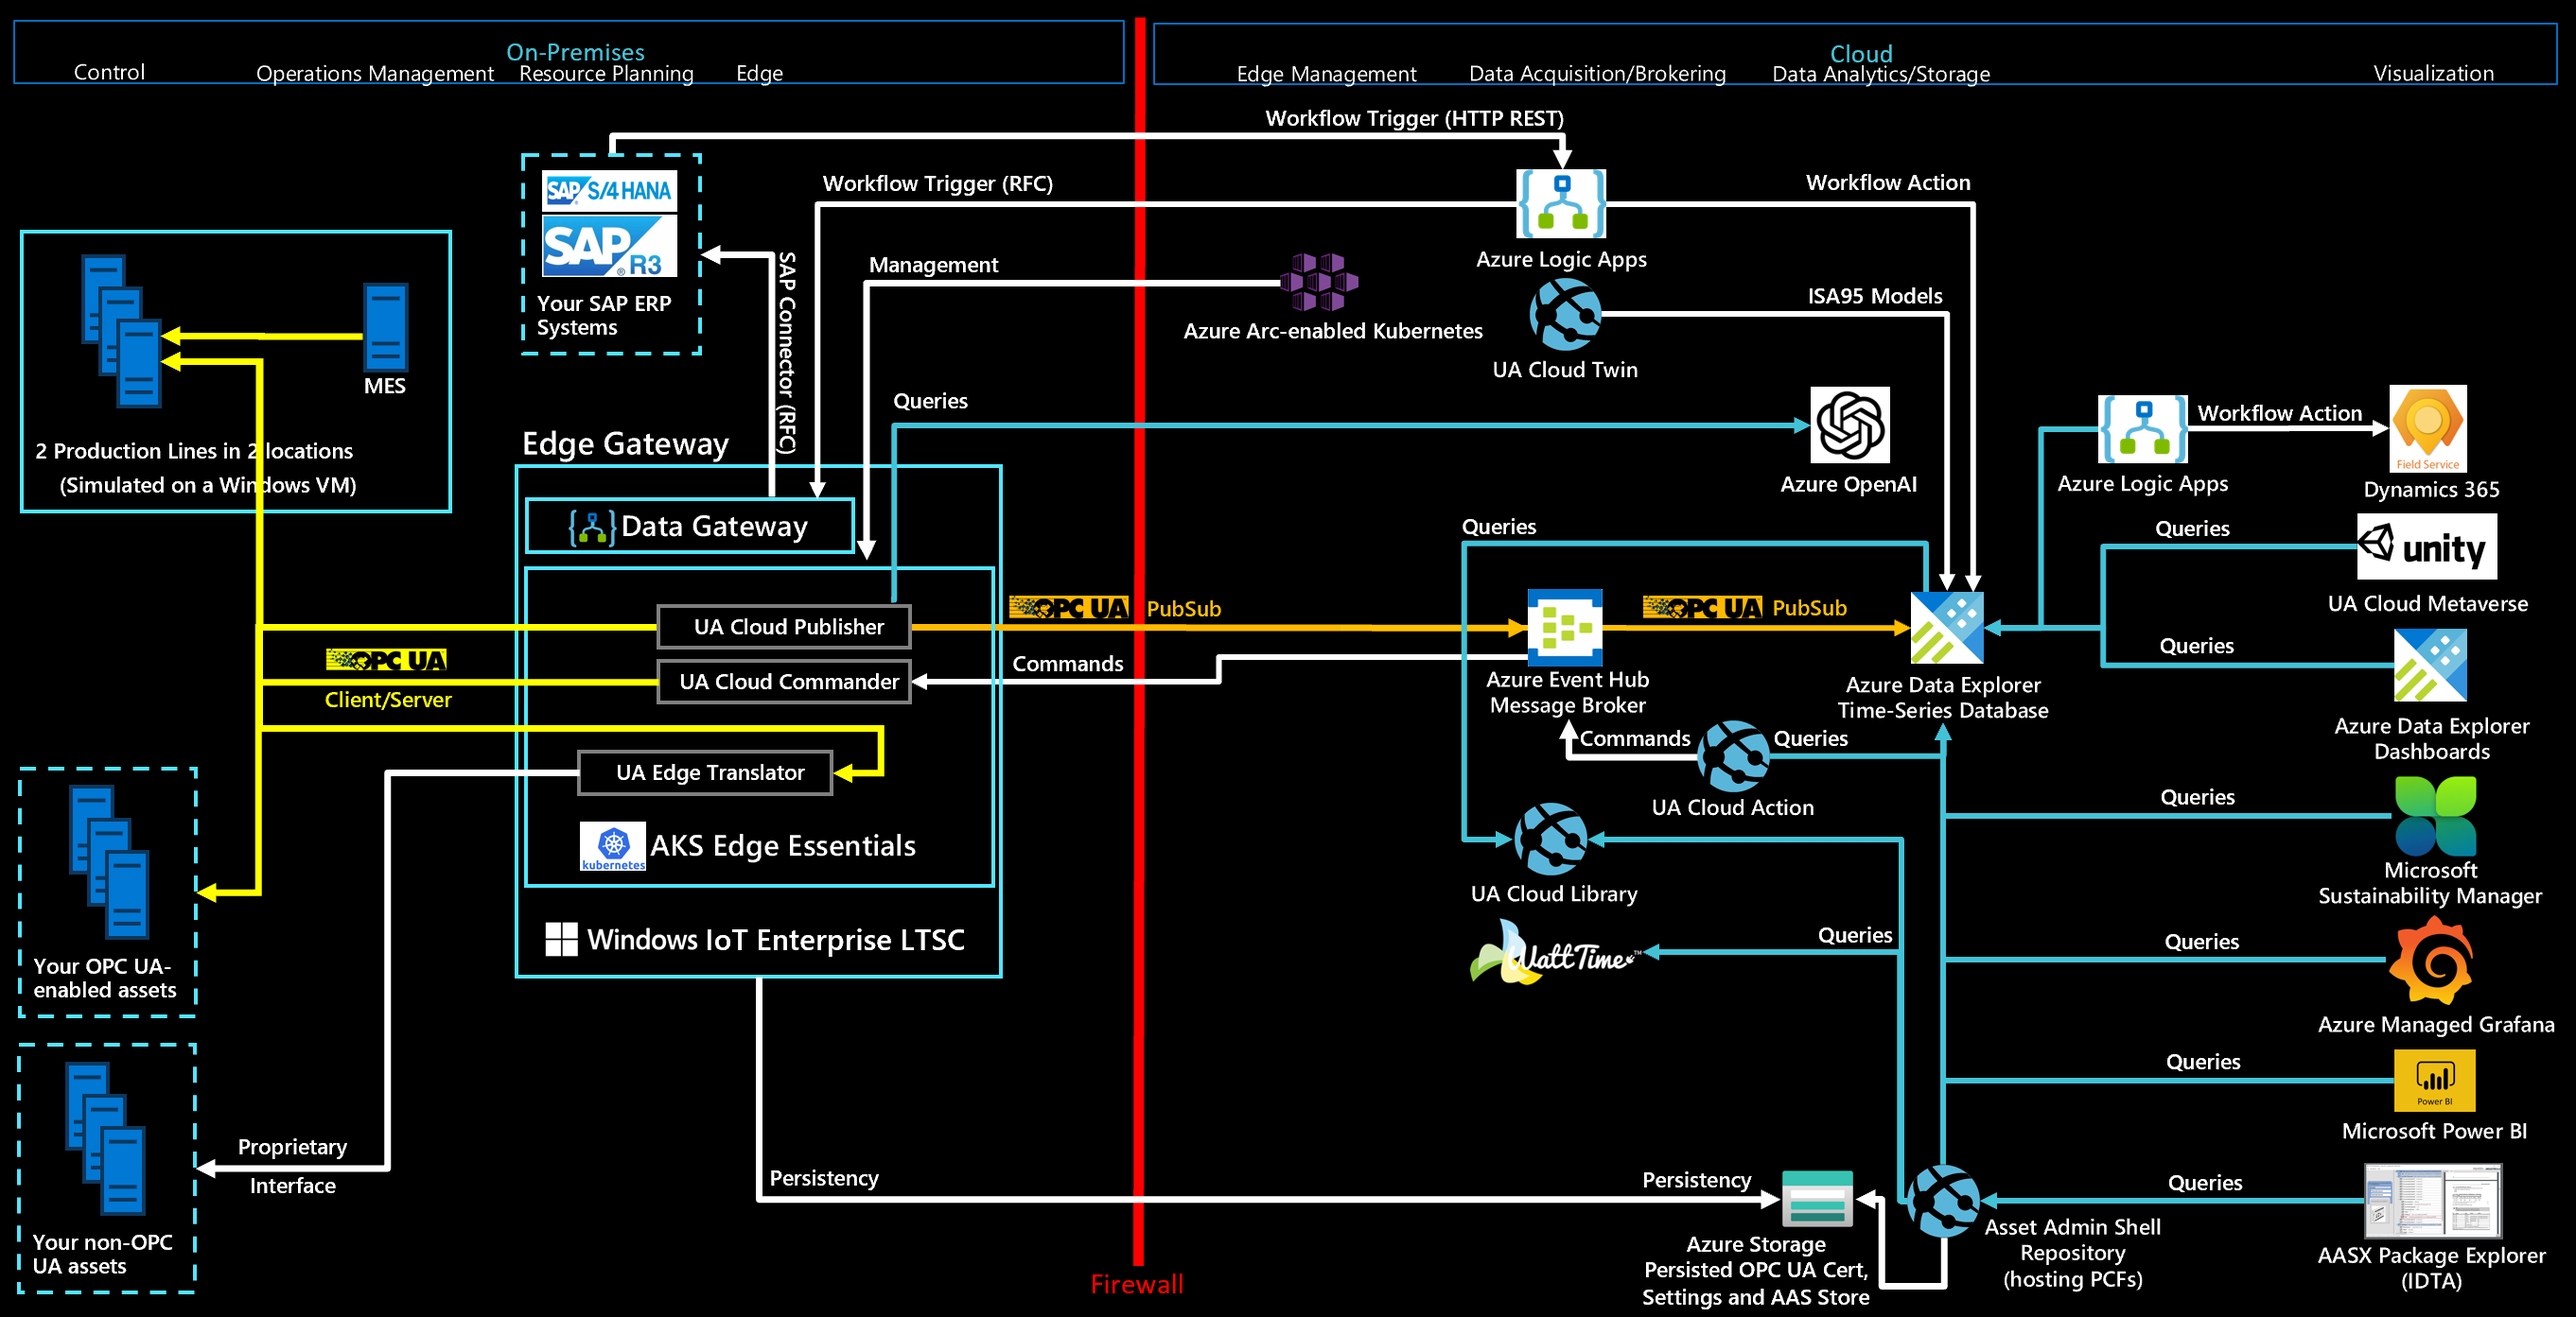
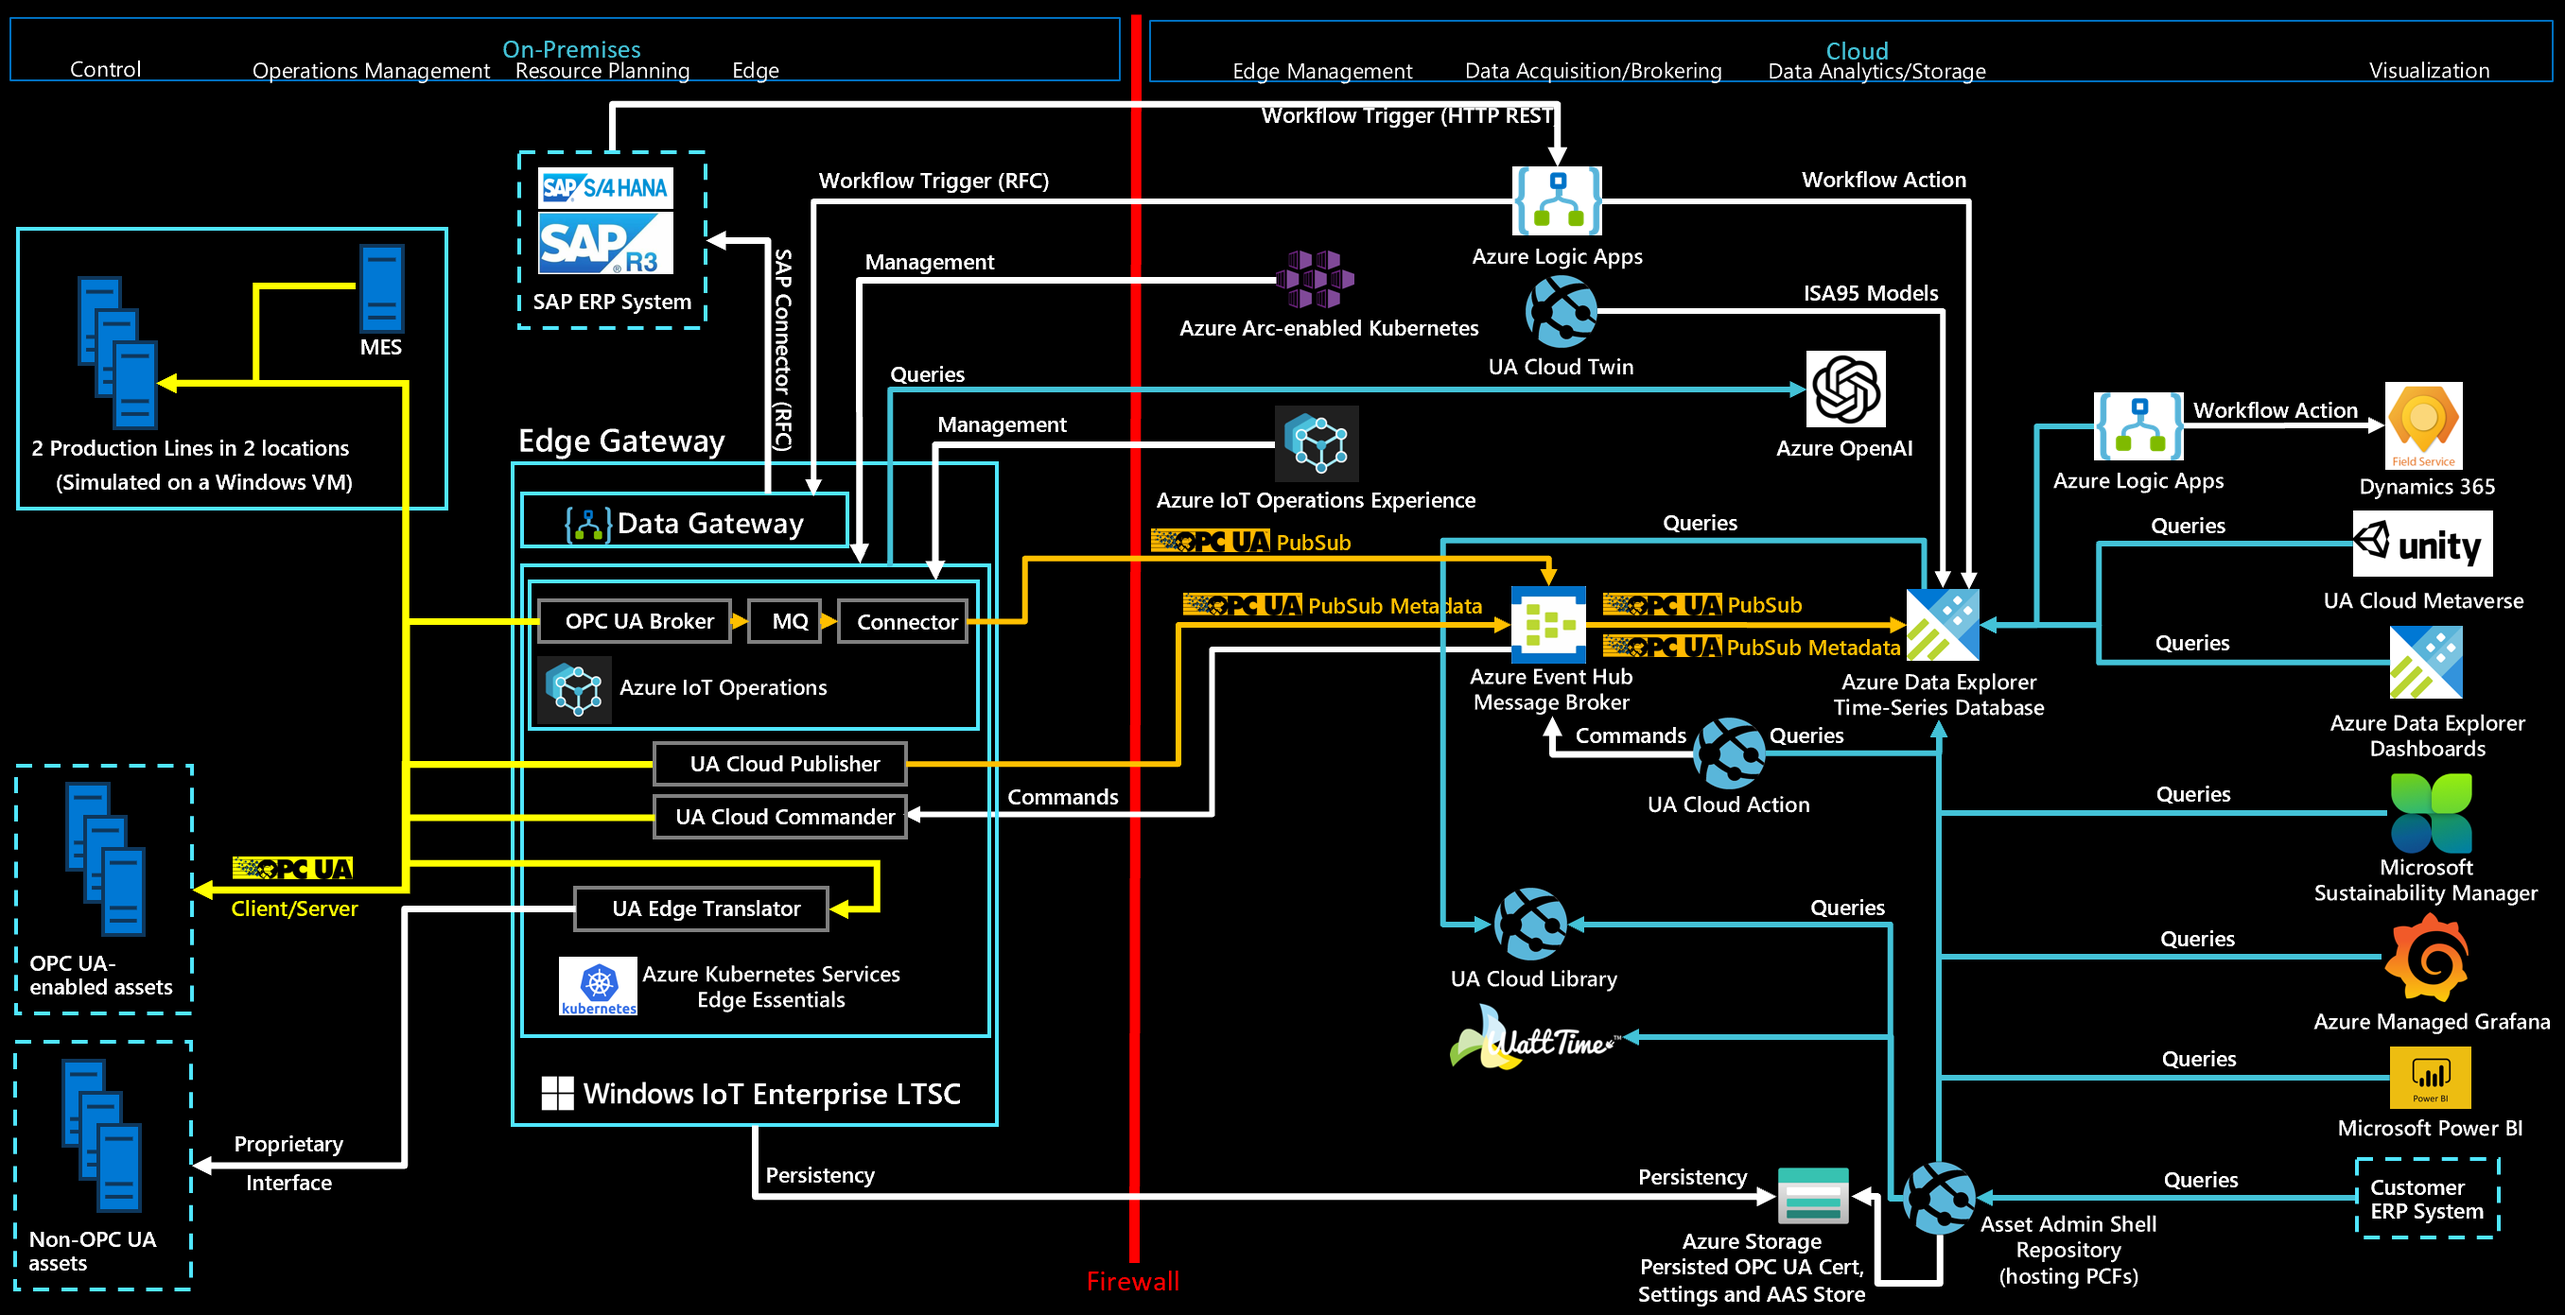
Updated arch diagram and readme.

diff --git a/README.md b/README.md
@@ -12,10 +12,10 @@
 * [Digital Feedback Loop with UA Cloud Commander and UA Cloud Action](https://github.com/digitaltwinconsortium/ManufacturingOntologies?tab=readme-ov-file#digital-feedback-loop-with-ua-cloud-commander-and-ua-cloud-action)
 * [Installation of Production Line Simulation and Cloud Services](https://github.com/digitaltwinconsortium/ManufacturingOntologies?tab=readme-ov-file#installation-of-production-line-simulation-and-cloud-services)
 * [Running the Production Line Simulation](https://github.com/digitaltwinconsortium/ManufacturingOntologies?tab=readme-ov-file#running-the-production-line-simulation)
+* [Enabling the Edge for Management via Azure Arc](https://github.com/digitaltwinconsortium/ManufacturingOntologies?tab=readme-ov-file#enabling-the-edge-for-management-via-azure-arc)
+* [Installing Azure IoT Operations on the Edge](https://github.com/digitaltwinconsortium/ManufacturingOntologies?tab=readme-ov-file#installing-azure-iot-operations-on-the-edge)
 * [Condition Monitoring, Calculating OEE, Detecting Anomalies and Making Predictions in Azure Data Explorer](https://github.com/digitaltwinconsortium/ManufacturingOntologies?tab=readme-ov-file#condition-monitoring-calculating-oee-detecting-anomalies-and-making-predictions-in-azure-data-explorer)
 * [Using Azure Managed Grafana Service](https://github.com/digitaltwinconsortium/ManufacturingOntologies?tab=readme-ov-file#using-azure-managed-grafana-service)
-* [Using 3D Scenes Studio](https://github.com/digitaltwinconsortium/ManufacturingOntologies?tab=readme-ov-file#using-3d-scenes-studio)
-* [Onboarding the Kubernetes Instance for Management via Azure Arc](https://github.com/digitaltwinconsortium/ManufacturingOntologies?tab=readme-ov-file#onboarding-the-kubernetes-instance-for-management-via-azure-arc)
 * [Enabling the Product Carbon Footprint Calculation (PCF) in the Asset Admin Shell (AAS) Repository](https://github.com/digitaltwinconsortium/ManufacturingOntologies?tab=readme-ov-file#enabling-the-product-carbon-footprint-calculation-pcf-in-the-asset-admin-shell-aas-repository)
 * [Connecting the Reference Solution to Microsoft Power BI](https://github.com/digitaltwinconsortium/ManufacturingOntologies?tab=readme-ov-file#connecting-the-reference-solution-to-microsoft-power-bi)
 * [Connecting the Reference Solution to Microsoft Dynamics 365 Field Service](https://github.com/digitaltwinconsortium/ManufacturingOntologies?tab=readme-ov-file#connecting-the-reference-solution-to-microsoft-dynamics-365-field-service)
@@ -247,29 +247,7 @@ Note: If you have access to several Azure subscriptions, it is worth first loggi
 Note: In this solution, the OPC UA application certificate store for UA Cloud Publisher, as well as the simulated production line's MES and individual machines' store, is located in the cloud in the deployed Azure Storage account.
 
 
-## Condition Monitoring, Calculating OEE, Detecting Anomalies and Making Predictions in Azure Data Explorer
-
-You can also visit the [Azure Data Explorer documentation](https://learn.microsoft.com/en-us/azure/synapse-analytics/data-explorer/data-explorer-overview) to learn how to create no-code dashboards for condition monitoring, yield or maintenance predictions, or anomaly detection. We have provided a sample dashboard in the `./Tools/ADXQueries` folder for you to deploy to the ADX Dashboard by following the steps outlined [here](https://learn.microsoft.com/en-us/azure/data-explorer/azure-data-explorer-dashboards#to-create-new-dashboard-from-a-file). After import, you need to update the dashboard's data source by specifying the HTTPS endpoint of your ADX server cluster instance in the format `https://ADXInstanceName.AzureRegion.kusto.windows.net/` in the top-right-hand corner of the dashboard. 
-
-<img src="Docs/dashboard.png" alt="dashboard" width="900" />
-
-Note: If you want to display the OEE for a specific shift, select `Custom Time Range` in the `Time Range` drop down in the top-left hand corner of the ADX Dashboard and enter the date and time from start to end of the shift you are interested in. 
-
-
-## Using Azure Managed Grafana Service
-
-You can also leverage Grafana to create a dashboard on Azure for this reference solution. Please see the documentation [here](https://github.com/digitaltwinconsortium/ManufacturingOntologies/blob/main/Tools/GrafanaDashboard/configuregrafana.md).
-
-<img src="Docs/grafana.png" alt="grafana" width="900" />
-
-## Using 3D Scenes Studio
-
-If you want to add a 3D viewer to the simulation, you can follow the steps to configure the 3D Scenes Studio outlined [here](https://learn.microsoft.com/en-us/azure/digital-twins/how-to-use-3d-scenes-studio) and map the 3D robot model from [here](https://cardboardresources.blob.core.windows.net/public/RobotArms.glb) to the digital twins automatically generated by the UA Cloud Twin:
-
-<img src="Docs/3dviewer.png" alt="3dviewer" width="900" />
-
-
-## Onboarding the Kubernetes Instance for Management via Azure Arc
+## Enabling the Edge for Management via Azure Arc
 
 1. On your virtual machine, open an **Administrator PowerShell window**, navigate to the `C:\ManufacturingOntologies-main\Deployment` directory and run `CreateServicePrincipal`. The two parameters `subscriptionID` and `tenantID` can be retrieved from the Azure Portal.
 1. Run `notepad aksedge-config.json` and provide the following information:
@@ -288,6 +266,30 @@ If you want to add a 3D viewer to the simulation, you can follow the steps to co
 You can now manage your Kubernetes cluster from the cloud via the newly deployed Azure Arc instance. In the Azure Portal, browse to the Azure Arc instance and select Workloads. The required service token can be retrieved via `Get-AksEdgeManagedServiceToken` from an **Administrator Powershell window** on your virtual machine.
 
 <img src="Docs/arc.png" alt="arc" width="900" />
+
+
+## Installing Azure IoT Operations on the Edge
+
+Please make sure you have already enabled the Edge for management via Azure Arc as described in the previous paragraph. Then, install Azure IoT Operations by following these instructions:
+
+1. TODO
+
+
+
+## Condition Monitoring, Calculating OEE, Detecting Anomalies and Making Predictions in Azure Data Explorer
+
+You can also visit the [Azure Data Explorer documentation](https://learn.microsoft.com/en-us/azure/synapse-analytics/data-explorer/data-explorer-overview) to learn how to create no-code dashboards for condition monitoring, yield or maintenance predictions, or anomaly detection. We have provided a sample dashboard in the `./Tools/ADXQueries` folder for you to deploy to the ADX Dashboard by following the steps outlined [here](https://learn.microsoft.com/en-us/azure/data-explorer/azure-data-explorer-dashboards#to-create-new-dashboard-from-a-file). After import, you need to update the dashboard's data source by specifying the HTTPS endpoint of your ADX server cluster instance in the format `https://ADXInstanceName.AzureRegion.kusto.windows.net/` in the top-right-hand corner of the dashboard. 
+
+<img src="Docs/dashboard.png" alt="dashboard" width="900" />
+
+Note: If you want to display the OEE for a specific shift, select `Custom Time Range` in the `Time Range` drop down in the top-left hand corner of the ADX Dashboard and enter the date and time from start to end of the shift you are interested in. 
+
+
+## Using Azure Managed Grafana Service
+
+You can also leverage Grafana to create a dashboard on Azure for this reference solution. Please see the documentation [here](https://github.com/digitaltwinconsortium/ManufacturingOntologies/blob/main/Tools/GrafanaDashboard/configuregrafana.md).
+
+<img src="Docs/grafana.png" alt="grafana" width="900" />
 
 
 ## Enabling the Product Carbon Footprint Calculation (PCF) in the Asset Admin Shell (AAS) Repository
